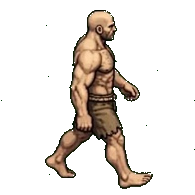
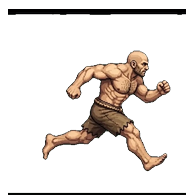
BUILD 397: bare side idle/walk re-cut per user direction from the user-supplied left-facing sheet (mirrored to face-right pack convention); sim 43,431 passed

Changed region(s): [[0.0308, 0.0308, 0.9538, 1.0]]

diff --git a/index.html b/index.html
@@ -1,1 +1,1 @@
-<!doctype html><html lang="en"><head><!-- BUILD309-VIEWPORT-FIX-MARKER --><meta charset="UTF-8"><meta name="viewport" content="width=device-width, initial-scale=1.0, maximum-scale=1.0, user-scalable=no"><meta name="theme-color" content="#17362e"><link rel="icon" type="image/svg+xml" href="favicon.svg"><meta name="description" content="Explore Mosslight Crossing in the Adventure Game field journal."><title>Adventure Game — Mosslight Crossing</title></head><body><div id="root"></div><script>window.__AG_BUILD="396";(function(){var shown=false;function code(m){var h=0,s=window.__AG_BUILD+"|"+m;for(var i=0;i<s.length;i++){h=(Math.imul(h,31)+s.charCodeAt(i))|0;}return "AG"+window.__AG_BUILD+"-"+(h>>>0).toString(36).toUpperCase().padStart(6,"0").slice(-5);}function show(m,k){if(shown||window.__agBooted)return;shown=true;var d=document.createElement("div");d.id="ag-boot-crash";var p=document.createElement("div");p.className="ag-boot-panel";var t=document.createElement("div");t.className="ag-boot-title";t.textContent="\u26a0 GAME FAILED TO START";var c=document.createElement("div");c.className="ag-boot-code";c.textContent=code(String(m));var g=document.createElement("div");g.className="ag-boot-msg";g.textContent=String(m).slice(0,300);var n=document.createElement("div");n.className="ag-boot-kind";n.textContent=k;var b=document.createElement("button");b.textContent="Reload game";b.onclick=function(){location.reload();};p.appendChild(t);p.appendChild(c);p.appendChild(g);p.appendChild(n);p.appendChild(b);d.appendChild(p);document.body.appendChild(d);}window.addEventListener("error",function(e){if(e.target&&e.target!==window)return;show(e.message||"script error","boot error");},true);window.addEventListener("unhandledrejection",function(e){var r=e.reason;show((r&&(r.message||r))||"rejection","boot rejection");});setTimeout(function(){if(!window.__agBooted)show("The game did not finish loading in time.","load timeout");},20000);})();</script><style>#ag-boot-crash{position:fixed;inset:0;z-index:99999;background:#0d1a16;display:flex;align-items:center;justify-content:center;padding:24px}#ag-boot-crash .ag-boot-panel{max-width:420px;width:100%;background:#14261f;border:1px solid #2c4a3e;border-radius:12px;padding:24px;text-align:center;color:#e8f0e9;font-family:system-ui,sans-serif}#ag-boot-crash .ag-boot-title{font-size:20px;font-weight:800;letter-spacing:.5px}#ag-boot-crash .ag-boot-code{font-family:monospace;font-size:22px;color:#ffd75e;margin:12px 0;letter-spacing:1px}#ag-boot-crash .ag-boot-msg{font-size:13px;color:#b9c9bd;word-break:break-word}#ag-boot-crash .ag-boot-kind{font-size:11px;color:#7d8f83;margin-top:8px;text-transform:uppercase;letter-spacing:1px}#ag-boot-crash button{margin-top:16px;background:#e8a33d;border:0;border-radius:8px;padding:10px 22px;font-size:15px;font-weight:700;color:#231603;cursor:pointer}</style><script type="module" src="/src/main.tsx"></script></body></html>
+<!doctype html><html lang="en"><head><!-- BUILD309-VIEWPORT-FIX-MARKER --><meta charset="UTF-8"><meta name="viewport" content="width=device-width, initial-scale=1.0, maximum-scale=1.0, user-scalable=no"><meta name="theme-color" content="#17362e"><link rel="icon" type="image/svg+xml" href="favicon.svg"><meta name="description" content="Explore Mosslight Crossing in the Adventure Game field journal."><title>Adventure Game — Mosslight Crossing</title></head><body><div id="root"></div><script>window.__AG_BUILD="397";(function(){var shown=false;function code(m){var h=0,s=window.__AG_BUILD+"|"+m;for(var i=0;i<s.length;i++){h=(Math.imul(h,31)+s.charCodeAt(i))|0;}return "AG"+window.__AG_BUILD+"-"+(h>>>0).toString(36).toUpperCase().padStart(6,"0").slice(-5);}function show(m,k){if(shown||window.__agBooted)return;shown=true;var d=document.createElement("div");d.id="ag-boot-crash";var p=document.createElement("div");p.className="ag-boot-panel";var t=document.createElement("div");t.className="ag-boot-title";t.textContent="\u26a0 GAME FAILED TO START";var c=document.createElement("div");c.className="ag-boot-code";c.textContent=code(String(m));var g=document.createElement("div");g.className="ag-boot-msg";g.textContent=String(m).slice(0,300);var n=document.createElement("div");n.className="ag-boot-kind";n.textContent=k;var b=document.createElement("button");b.textContent="Reload game";b.onclick=function(){location.reload();};p.appendChild(t);p.appendChild(c);p.appendChild(g);p.appendChild(n);p.appendChild(b);d.appendChild(p);document.body.appendChild(d);}window.addEventListener("error",function(e){if(e.target&&e.target!==window)return;show(e.message||"script error","boot error");},true);window.addEventListener("unhandledrejection",function(e){var r=e.reason;show((r&&(r.message||r))||"rejection","boot rejection");});setTimeout(function(){if(!window.__agBooted)show("The game did not finish loading in time.","load timeout");},20000);})();</script><style>#ag-boot-crash{position:fixed;inset:0;z-index:99999;background:#0d1a16;display:flex;align-items:center;justify-content:center;padding:24px}#ag-boot-crash .ag-boot-panel{max-width:420px;width:100%;background:#14261f;border:1px solid #2c4a3e;border-radius:12px;padding:24px;text-align:center;color:#e8f0e9;font-family:system-ui,sans-serif}#ag-boot-crash .ag-boot-title{font-size:20px;font-weight:800;letter-spacing:.5px}#ag-boot-crash .ag-boot-code{font-family:monospace;font-size:22px;color:#ffd75e;margin:12px 0;letter-spacing:1px}#ag-boot-crash .ag-boot-msg{font-size:13px;color:#b9c9bd;word-break:break-word}#ag-boot-crash .ag-boot-kind{font-size:11px;color:#7d8f83;margin-top:8px;text-transform:uppercase;letter-spacing:1px}#ag-boot-crash button{margin-top:16px;background:#e8a33d;border:0;border-radius:8px;padding:10px 22px;font-size:15px;font-weight:700;color:#231603;cursor:pointer}</style><script type="module" src="/src/main.tsx"></script></body></html>
